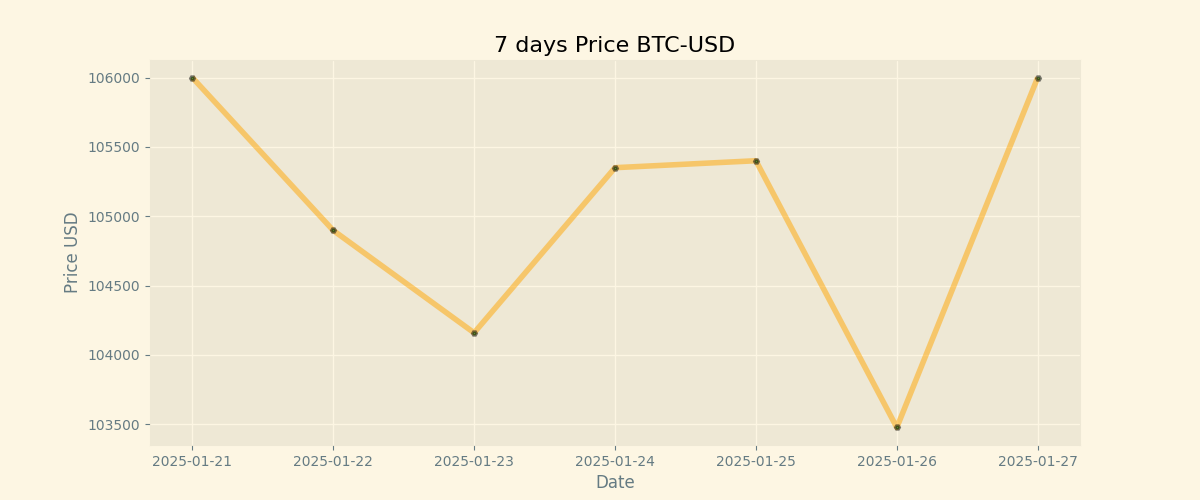
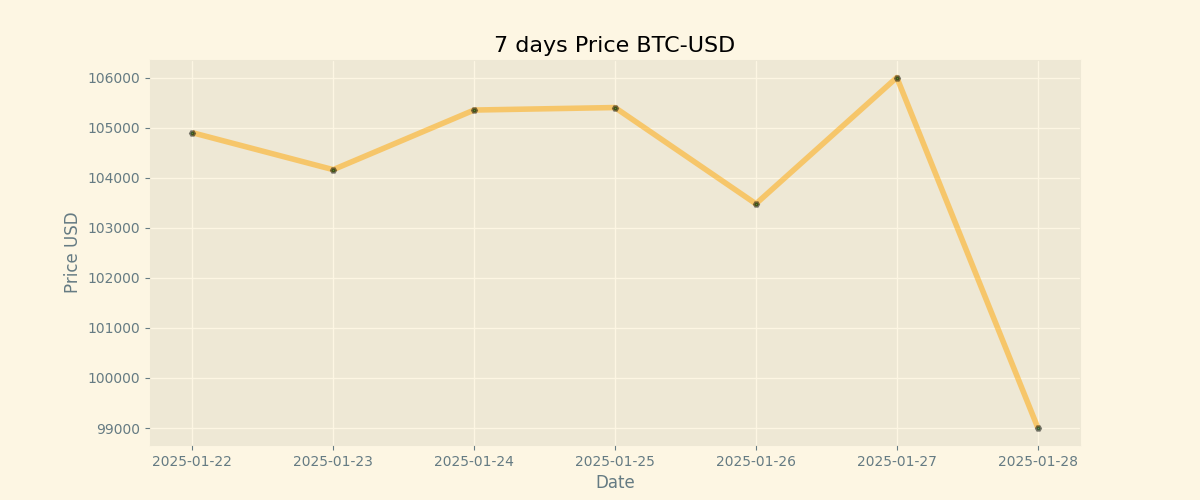
Duty Updates 2025-01-28

diff --git a/README.md b/README.md
@@ -9,8 +9,8 @@
 
 | Currency | Price           |
 | -------- | --------------- |
-| **BTC**  | **$ 106000.0** |
-| **ETH**  | **$ 3205.0** |
+| **BTC**  | **$ 99010.0** |
+| **ETH**  | **$ 3106.5** |
 
 ## BTC chart
 
